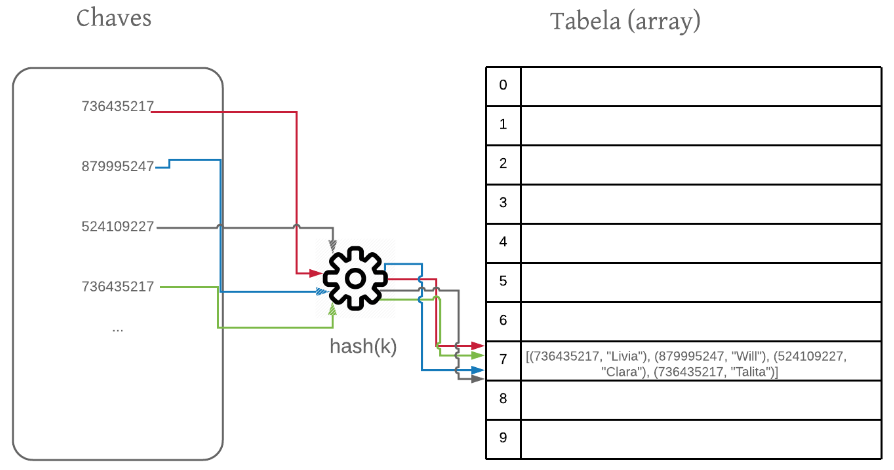
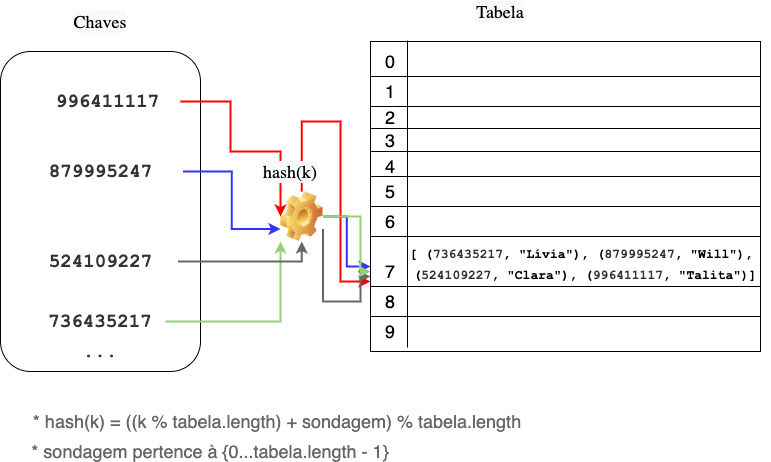
conserta erros de colisão

diff --git a/content/posts/hashtable.md b/content/posts/hashtable.md
@@ -286,7 +286,7 @@ Como foi possível perceber, a implementação dessas operações básicas inclu
 * (736435217, "Lívia")
 * (879995247, "Will")
 * (524109227, "Clara")
-* (736435217, "Talita")
+* (996411117, "Talita")
 
 Nesse caso, como nossa função de hash mapeia todos os elementos para o índice 7, teríamos a seguinte configuração:
 
